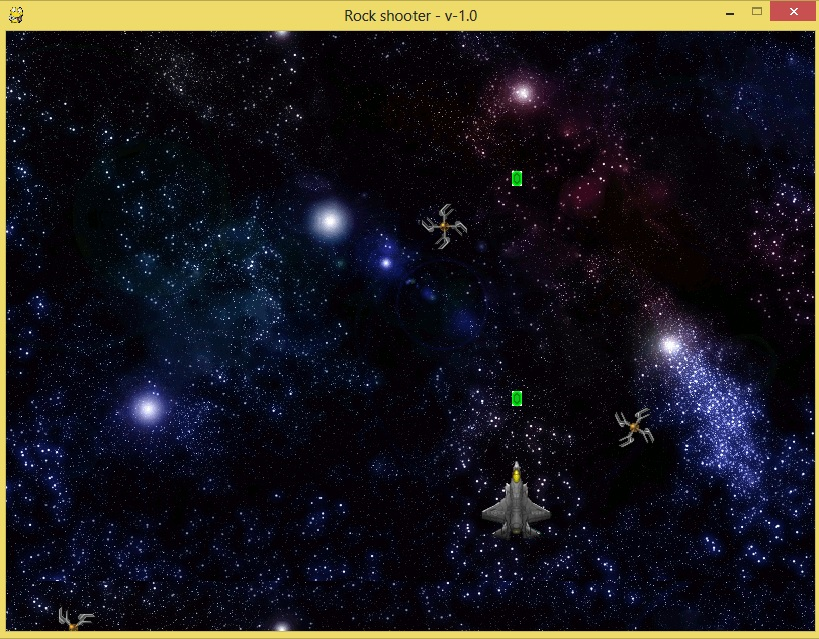
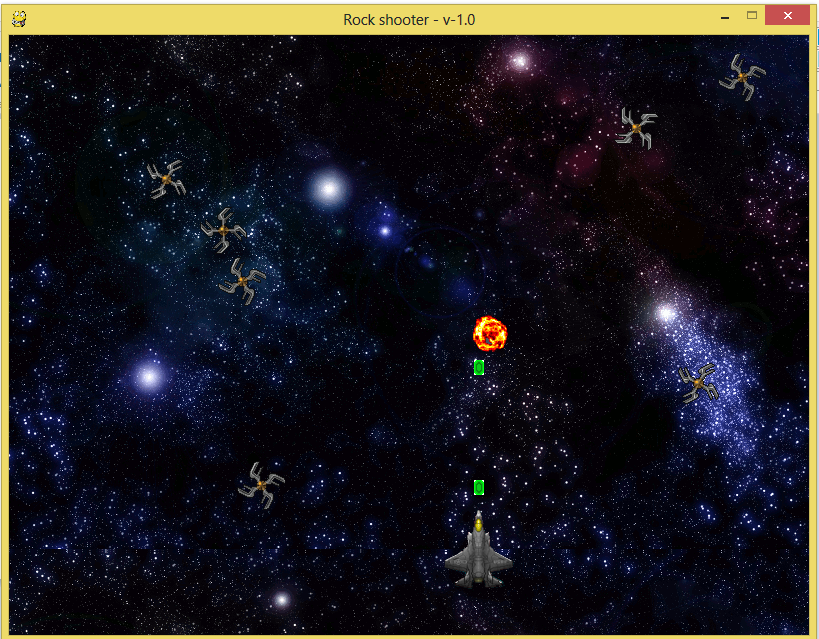
Implementing explosion animation

diff --git a/rockshooter/enemy.py b/rockshooter/enemy.py
@@ -12,9 +12,12 @@ class Enemy:
 		self.position = self.getRandomPosition()
 		self.visible = True
 		self.background = pygame.Surface((48, 50)).convert()
+		self.explode = False
+		self.explosionTime = 0
 		self.explosionImage = pygame.image.load("images/enemy_explosion.png")
 		self.explosionSprites = self._getExplosionSpriteSequence()
 		self.rect = pygame.Rect(self.position[0], self.position[1], 48, 50)
+		self.spriteExplosionIndex = 0
 
 	def move(self):
 		if (self.position[1] + 1 < game.Game.screenSize[1]):
@@ -32,17 +35,27 @@ class Enemy:
 		return sprites
 
 	def draw(self):
-		game.Game.screen.blit(self.sprites[self.spriteIndex], self.position)
-		self.spriteIndex = self.spriteIndex + 1
-		if self.spriteIndex > 3:
-			self.spriteIndex = 0
+		if not self.explode:
+			game.Game.screen.blit(self.sprites[self.spriteIndex], self.position)
+			self.spriteIndex = self.spriteIndex + 1
+			if self.spriteIndex > 3:
+				self.spriteIndex = 0
+		else:
+			self.explodeMe()
 
 	def getRandomPosition(self):
 		randomX = random.randint(10, game.Game.screenSize[0] - 10)
 		return (randomX, 0)
 
-	def explode(self):
-		pass
+	def explodeMe(self):
+		game.Game.screen.blit(self.explosionSprites[self.spriteExplosionIndex], self.position)
+		self.spriteExplosionIndex = self.spriteExplosionIndex + 1
+		print self.spriteExplosionIndex
+		print len(self.explosionSprites)
+		if self.spriteExplosionIndex > 7:
+			self.spriteExplosionIndex = 0
+			self.visible = False
+
 
 	def _getExplosionSpriteSequence(self):
 		explosionSprites = []

diff --git a/rockshooter/game.py b/rockshooter/game.py
@@ -79,7 +79,7 @@ class Game:
 	
 	def _generateEnemies(self):
 		if self.enemyGenerateTime == 0:
-			self.enemyGenerateTime = 200
+			self.enemyGenerateTime = 50
 			self.enemies.append(enemy.Enemy())
 		else:
 			self.enemyGenerateTime = self.enemyGenerateTime - 1;
@@ -89,7 +89,7 @@ class Game:
 			for enemy in self.enemies:
 				if bullet.rect.colliderect(enemy.rect):
 					bullet.visible = False
-					enemy.visible = False
+					enemy.explode = True
 
 
 if __name__ == '__main__':
